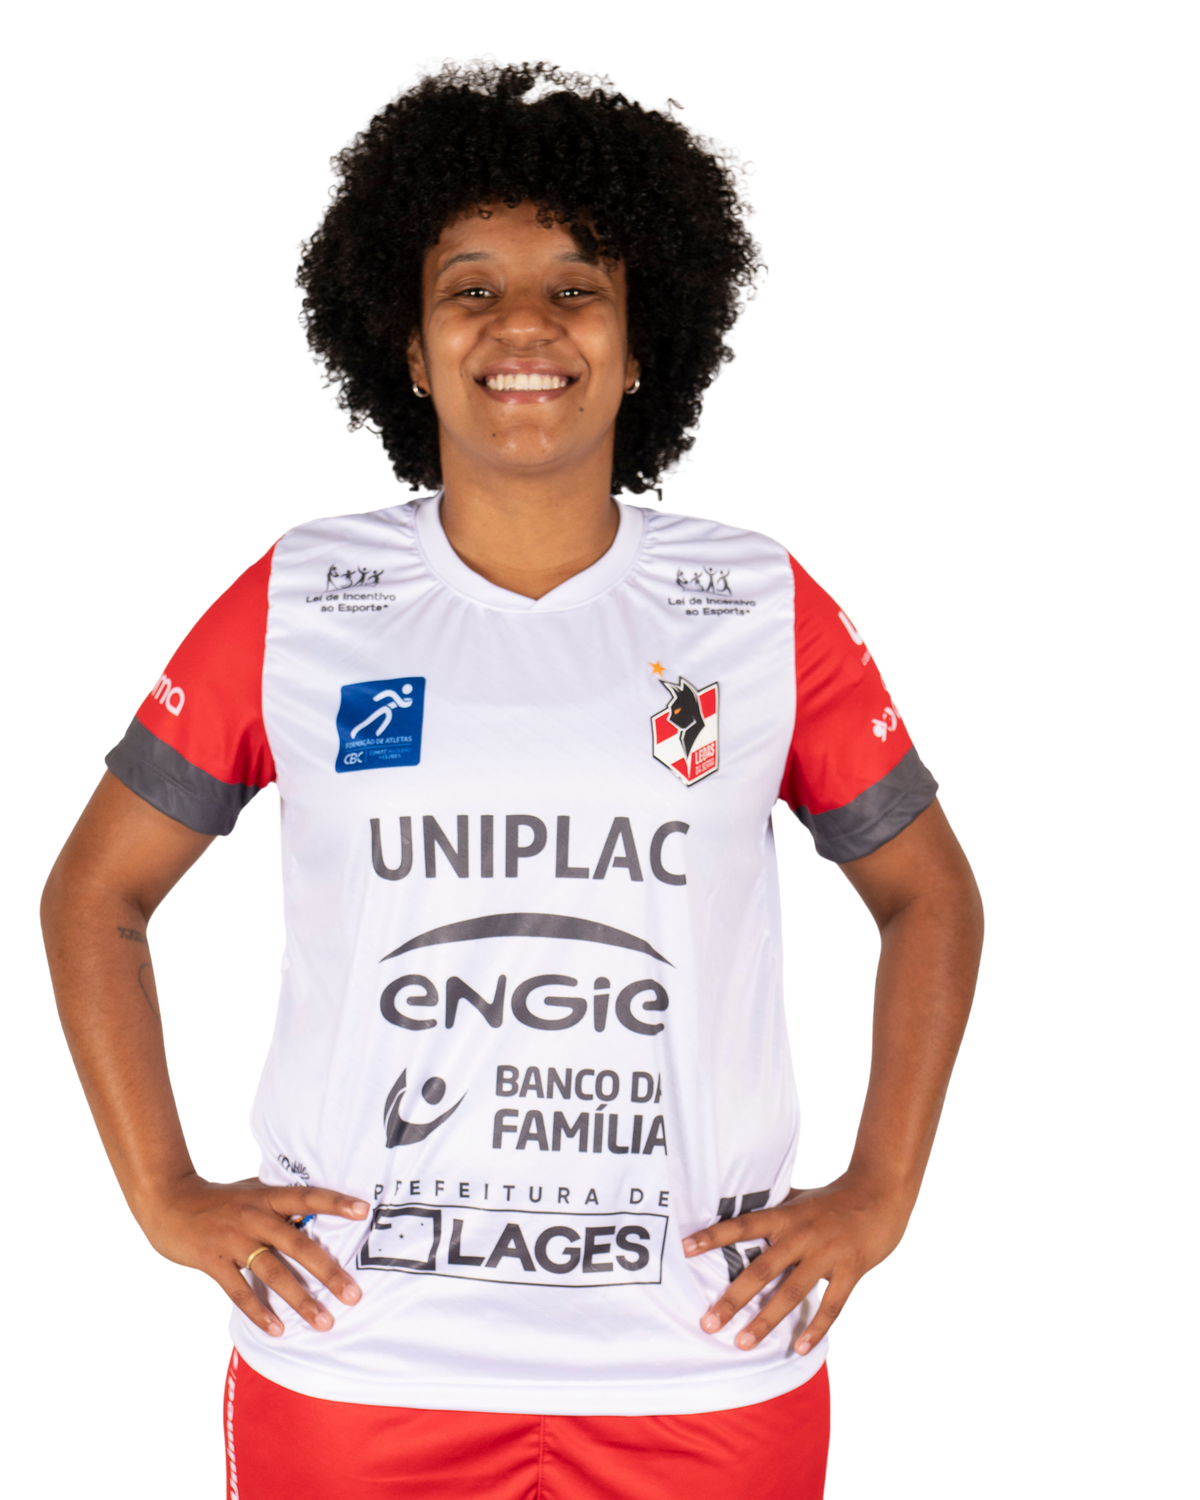
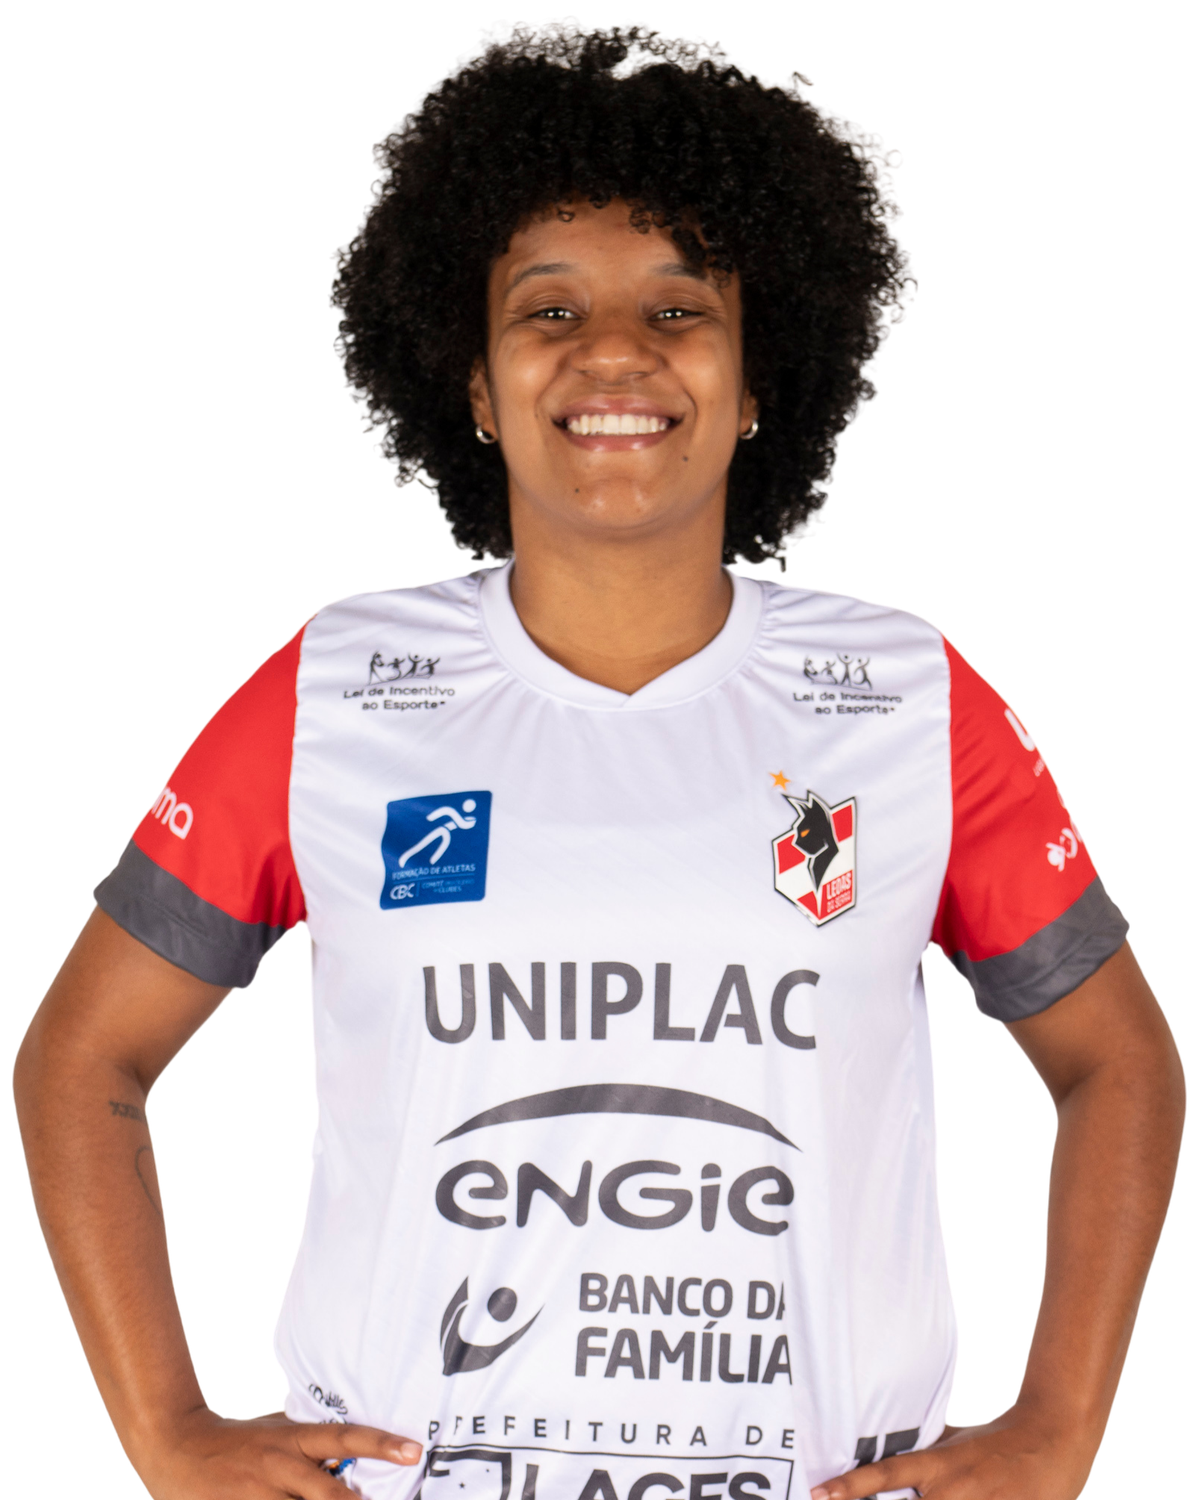
Corrigir ImageReveal para preencher sempre o wrapper (fill+cover)
ImageReveal renderizava a imagem num tamanho fixo em pixels (width/
height passados pelo chamador) em vez de esticar pro tamanho real do
wrapper -- em telas/grades mais largas que esse tamanho fixo, a foto
ficava menor que o card e alinhada a esquerda, sobrando espaco vazio
a direita (visivel na grade da loja e, por tabela, tambem afetava o
elenco). Agora usa fill+object-cover sempre, deixando a proporcao a
cargo da classe do wrapper (aspect-[4/5] etc.) como ja era a intencao.

Adicionado tambem objectPositionFrom (hotspot) no ProductCard e no
RosterCard, e recortada de novo a foto de frente do Uniforme 2: o
recorte original nao tinha centralizado o sujeito horizontalmente
(42% em vez de 50%), sobrando espaco vazio a direita mesmo com a
imagem preenchendo certo -- corrigido na origem.

Claude-Session: https://claude.ai/code/session_018ktApfj6aYqDFMAJi3tNry

diff --git a/src/components/motion/ImageReveal.tsx b/src/components/motion/ImageReveal.tsx
@@ -1,7 +1,7 @@
 "use client";
 
-import { useEffect, useRef } from "react";
-import Image, { type ImageProps } from "next/image";
+import { useEffect, useRef, type CSSProperties } from "react";
+import Image from "next/image";
 import gsap from "gsap";
 import { ScrollTrigger } from "gsap/ScrollTrigger";
 import { usePrefersReducedMotion } from "@/hooks/usePrefersReducedMotion";
@@ -9,11 +9,35 @@ import { EASE_CINEMATIC_GSAP } from "@/lib/motion";
 
 gsap.registerPlugin(ScrollTrigger);
 
+interface ImageRevealProps {
+  src: string;
+  alt: string;
+  className?: string;
+  sizes?: string;
+  priority?: boolean;
+  style?: CSSProperties;
+  /** So para pedir uma resolucao adequada ao otimizador — o box real vem do wrapper (fill). */
+  width?: number;
+  height?: number;
+}
+
 /**
  * Fotos reveladas por clip-path (wipe da esquerda para a direita) —
- * nunca um fade simples.
+ * nunca um fade simples. Preenche sempre o wrapper (fill + cover), nunca
+ * um tamanho fixo — quem controla a proporcao e a classe do wrapper
+ * (aspect-[4/5] etc.), nao o width/height da imagem.
  */
-export function ImageReveal({ className, alt, ...imageProps }: ImageProps & { className?: string }) {
+export function ImageReveal({
+  className,
+  alt,
+  // eslint-disable-next-line @typescript-eslint/no-unused-vars -- so pra excluir do spread (fill nao aceita width/height)
+  width,
+  // eslint-disable-next-line @typescript-eslint/no-unused-vars -- so pra excluir do spread (fill nao aceita width/height)
+  height,
+  style,
+  sizes,
+  ...imageProps
+}: ImageRevealProps) {
   const wrapperRef = useRef<HTMLDivElement>(null);
   const reducedMotion = usePrefersReducedMotion();
 
@@ -47,7 +71,13 @@ export function ImageReveal({ className, alt, ...imageProps }: ImageProps & { cl
 
   return (
     <div ref={wrapperRef} className={`relative overflow-hidden ${className ?? ""}`}>
-      <Image alt={alt} {...imageProps} />
+      <Image
+        alt={alt}
+        fill
+        sizes={sizes ?? "(min-width: 1024px) 50vw, 100vw"}
+        style={{ objectFit: "cover", ...style }}
+        {...imageProps}
+      />
     </div>
   );
 }

diff --git a/src/components/roster/RosterCard.tsx b/src/components/roster/RosterCard.tsx
@@ -1,6 +1,7 @@
 import Link from "next/link";
 import { ImageReveal } from "@/components/motion";
 import type { Atleta } from "@/types/content";
+import { objectPositionFrom } from "@/lib/format";
 
 const ASPECTOS = ["aspect-[3/4]", "aspect-[3/5]", "aspect-square", "aspect-[4/5]"];
 
@@ -14,7 +15,14 @@ export function RosterCard({ atleta, index }: { atleta: Atleta; index: number })
 
   return (
     <Link href={`/elenco/${atleta.slug}`} className="group hover-zoom relative block overflow-hidden rounded-sm bg-card">
-      <ImageReveal src={atleta.foto.url} alt={atleta.foto.alt} width={480} height={600} className={`w-full ${aspecto}`} />
+      <ImageReveal
+        src={atleta.foto.url}
+        alt={atleta.foto.alt}
+        width={480}
+        height={600}
+        className={`w-full ${aspecto}`}
+        style={{ objectPosition: objectPositionFrom(atleta.foto) }}
+      />
 
       <div className="pointer-events-none absolute inset-0 bg-gradient-to-t from-black via-black/10 to-transparent" />
 

diff --git a/src/components/store/ProductCard.tsx b/src/components/store/ProductCard.tsx
@@ -3,7 +3,7 @@
 import Link from "next/link";
 import { ImageReveal } from "@/components/motion";
 import { useCart } from "./CartContext";
-import { formatarPreco } from "@/lib/format";
+import { formatarPreco, objectPositionFrom } from "@/lib/format";
 import type { ProdutoDestaque } from "@/types/content";
 
 export function ProductCard({ produto }: { produto: ProdutoDestaque }) {
@@ -19,6 +19,7 @@ export function ProductCard({ produto }: { produto: ProdutoDestaque }) {
           width={600}
           height={750}
           className="aspect-[4/5] w-full rounded-sm bg-card"
+          style={{ objectPosition: objectPositionFrom(produto.imagem) }}
         />
       </Link>
       <div className="mt-3 flex items-start justify-between gap-3">

diff --git a/src/components/store/CampaignHero.tsx b/src/components/store/CampaignHero.tsx
@@ -11,11 +11,10 @@ export function CampaignHero({ produto }: { produto: ProdutoDestaque }) {
         <ImageReveal
           src={produto.imagem.url}
           alt={produto.imagem.alt}
-          fill
           priority
           sizes="100vw"
           className="h-full w-full"
-          style={{ objectFit: "cover", objectPosition: objectPositionFrom(produto.imagem) }}
+          style={{ objectPosition: objectPositionFrom(produto.imagem) }}
         />
       </div>
       <div className="absolute inset-0 -z-10 bg-gradient-to-t from-black via-black/40 to-transparent" />
